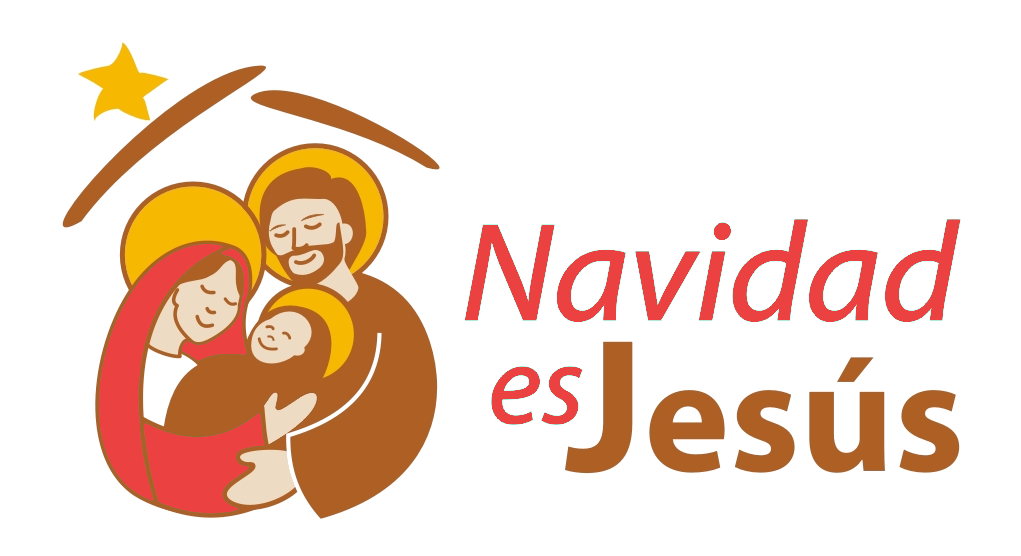
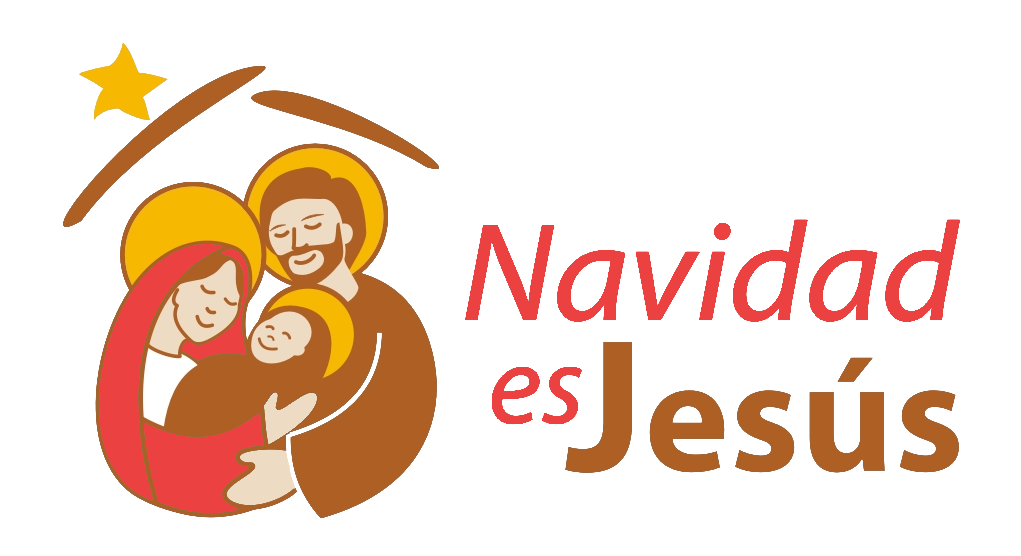
Última sección con efecto de movimiento

Changed region(s): [[0.2733, 0.7644, 0.3036, 0.795], [0.0911, 0.1835, 0.1214, 0.214]]

diff --git a/js/app.js b/js/app.js
@@ -9,23 +9,47 @@
 *   Ref JSDoc: https://jsdoc.app/
 */
 'use strict'
-window.onload = iniciar;
 
-function iniciar(){
+class App{
 
-    let botones = document.getElementsByClassName('botonMover');
-    //botones.setAttribute('onclick', 'desplazamiento()');
-    for (const boton of botones) {
-        boton.onclick = desplazamiento;
+    constructor(){
+	
+	window.onload = this.iniciar.bind(this);
+
+	//ATRIBUTOS
+	this.misterio = document.querySelector('main > section:last-child > .imagen');
+
     }
+
+    iniciar(){
+
+	//BOTONES
+	let botones = document.getElementsByClassName('botonMover');
+	for (const boton of botones) {
+	    boton.onclick = this.desplazamiento;
+	}
+
+	//Efecto imagen
+	window.setInterval(this.animarImagen.bind(this), 1000);
+
+    }
+
+    desplazamiento(){
     
+	let audio = document.createElement('audio');
+	audio.setAttribute('src', 'recursos/audio/desplazamiento.wav');
+	audio.play();
+
+    }
+
+    animarImagen(){
+
+	if(this.misterio.style.width == '50%')
+	    this.misterio.style.width = '55%';
+	else this.misterio.style.width = '50%';
+
+    }
 
 }
 
-function desplazamiento(){
-    
-    let audio = document.createElement('audio');
-    audio.setAttribute('src', 'recursos/audio/desplazamiento.wav');
-    audio.play();
-
-}
+let app = new App();

diff --git a/css/style.css b/css/style.css
@@ -98,6 +98,20 @@ main > section:nth-child(2n){
     box-shadow: 0px 0px 20px black;
 }
 
+main > section:last-child > .imagen{
+    cursor: pointer;
+    transition: all 1000ms ease;
+}
+
+main > section:last-child > .imagen > img{
+    transition: all 500ms ease;
+}
+
+main > section:last-child > .imagen > img:hover{
+    transition: all 500ms ease;
+    filter: drop-shadow(0 0 5px rgba(0, 0, 0, 0.5));
+}
+
 
 /** BOTONES MOVER **/
 .botonMover{
